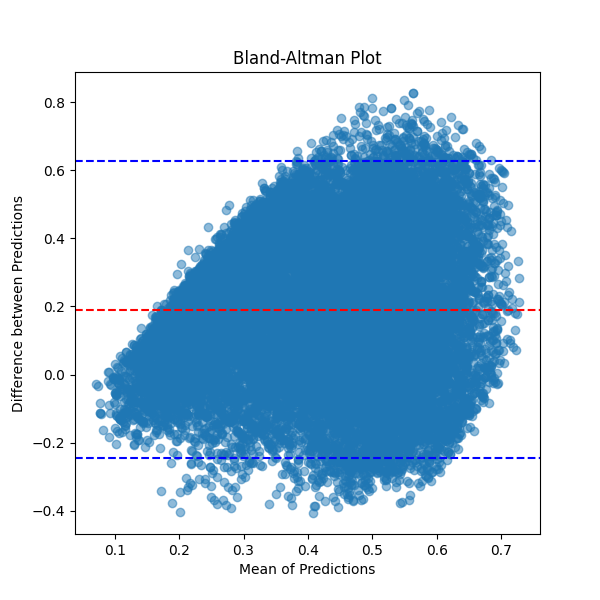
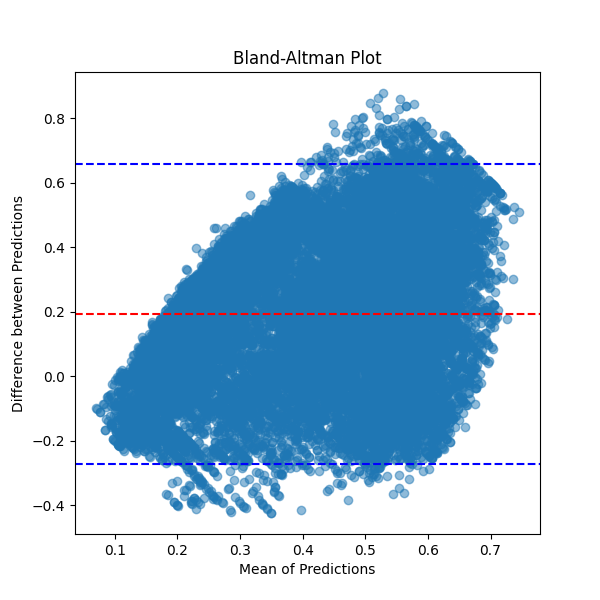
fix bug Selfsimilarity

diff --git a/rank_sum_algorithm/neoantigen_prioritization_rank_sum.py b/rank_sum_algorithm/neoantigen_prioritization_rank_sum.py
@@ -25,7 +25,8 @@ def create_annotations_df(pvacseq_filename, neofox_filename):
     neofox_df = pd.read_csv(neofox_filename, sep="\t", header=0)
 
     if neofox_df.shape[0] != pvacseq_df.shape[0]:
-        raise ValueError("Neofox output and pVACseq output should have the same amount of rows.")
+        raise ValueError("Neofox output and pVACseq output should have the same amount of rows.") 
+        raise ValueError("Neofox output and pVACseq output should have the same amount of rows.") 
     annotation_df = neofox_df.merge(
         right=pvacseq_df.loc[:, ['Chromosome', 'Start', 'Stop', 'Transcript', 'Variant Type',
                                  'MHCflurry WT IC50 Score', 'MHCflurry MT IC50 Score', 'MHCflurry WT Percentile',
@@ -86,10 +87,15 @@ def ranking(input_df, meta_columns, step_size):
         # Ranking
         column_name_rank = feature_name + '_rank'
         if feature_name == 'Selfsimilarity_conserved_binder':
-            # if Selfsimilarity is NaN, the DAI is almost zero -> NaN would be preferable
+            # if Selfsimilarity is NaN, the DAI is not almost zero -> NaN would be preferable if DAI >> 0, but if DAI << 0 not preferable
             rank_column = output_df[feature_name].rank(method='max',
                                                        ascending=features[feature_name]['direction'] == 'lower',
-                                                       na_option='top')
+                                                       na_option='keep')
+            preferable_na_count = (output_df[feature_name].isna() & (output_df['DAI'] > 0)).sum()
+            rank_column = rank_column + preferable_na_count
+            rank_column[output_df[feature_name].isna() & (output_df['DAI'] > 0)] = preferable_na_count
+
+            rank_column[output_df[feature_name].isna() & (output_df['DAI'] <= 0)] = rank_column.size
         elif feature_name == 'imputedGeneExpression':
             output_df.insert(index, 'rnaExpression', input_df['rnaExpression'])
             index += 1

diff --git a/rank_sum_algorithm/weight_calc/random_forest_model.py b/rank_sum_algorithm/weight_calc/random_forest_model.py
@@ -8,9 +8,10 @@ from sklearn.ensemble import RandomForestClassifier
 from sklearn.metrics import accuracy_score, precision_score, recall_score, f1_score, roc_auc_score, roc_curve
 from sklearn.inspection import permutation_importance
 
-sys.path.append(sys.path[0] + '/../..')
-from analysis.helpers.get_data import get_relevant_features_neofox
-from rank_sum_algorithm.weight_calc.data.get_data import get_train_data
+sys.path.append(sys.path[0] + '/../../analysis')
+from helpers.get_data import get_relevant_features_neofox
+sys.path.append(sys.path[0] + '/../../rank_sum_algorithm')
+from weight_calc.data.get_data import get_train_data
 
 
 class RandomForestModel:
@@ -47,8 +48,7 @@ class RandomForestModel:
 
         weights = {}
         for feature, weight in zip(feature_list, feature_weights_adjusted):
-            weights[feature] = weight
-
+            weights[feature] = weight if weight > 0 else 1e-10
         total = 1
         for feature in get_relevant_features_neofox():
             if feature not in weights:
@@ -64,7 +64,7 @@ class RandomForestModel:
         sorted_importances_idx = result.importances_mean.argsort()
         importances = pd.DataFrame(
             result.importances[sorted_importances_idx].T,
-            columns=feature_list[sorted_importances_idx],
+            columns=np.array(feature_list)[sorted_importances_idx],
         )
         ax = importances.plot.box(vert=False, whis=10)
         ax.set_title("Permutation Importances (test set)")

diff --git a/rank_sum_algorithm/analysis/rank_sum_score_vs_random_forest_prediction.py b/rank_sum_algorithm/analysis/rank_sum_score_vs_random_forest_prediction.py
@@ -14,7 +14,7 @@ from analysis.helpers.get_data import get_relevant_features_neofox
 from rank_sum_algorithm.weight_calc.random_forest_model import RandomForestModel
 
 rf = RandomForestModel()
-step_size = 1
+step_size = 25
 
 directory = "/mnt/storage2/users/ahnelll1/master_thesis/output"
 features_qscore = None
@@ -37,11 +37,14 @@ for cohort in os.listdir(directory):
                 features_qscore = weighted_rank_sum_out
             else:
                 features_qscore = pd.concat([features_qscore, weighted_rank_sum_out])
-
+features_qscore.reset_index(drop=True, inplace=True)
 qscores = features_qscore.loc[:, ['qscore']]
 features = features_qscore.loc[:, [name for name in get_relevant_features_neofox() if not name.startswith("Priority_score")]]
-features['Selfsimilarity_conserved_binder'] = features['Selfsimilarity_conserved_binder'].fillna(0)
 
+for i, row in features.iterrows():
+    if np.isnan(row['Selfsimilarity_conserved_binder']):
+        features.loc[i, 'Selfsimilarity_conserved_binder'] = 0 if (features.loc[i, 'DAI'] > 0) else 1
+print(features['Selfsimilarity_conserved_binder'])
 features = np.array(features)
 qscores = np.array(qscores).flatten()
 

diff --git a/rank_sum_algorithm/weight_calc/data/get_data.py b/rank_sum_algorithm/weight_calc/data/get_data.py
@@ -6,8 +6,8 @@ import sys
 from sklearn.model_selection import train_test_split
 from sklearn.impute import SimpleImputer
 
-sys.path.append(sys.path[0] + '/../../..')
-from analysis.helpers.get_data import get_relevant_features_neofox
+sys.path.append(sys.path[0] + '/../../../analysis')
+from helpers.get_data import get_relevant_features_neofox
 
 directory_ml = "/mnt/storage2/users/ahnelll1/master_thesis/output_training_data"
 
@@ -30,8 +30,9 @@ def get_train_data():
 
     features_with_meta = features_with_meta.loc[:, ['patientIdentifier'] + [name for name in all_feature_names if
                                                                             not name.startswith("Priority_score")]]
-    features_with_meta['Selfsimilarity_conserved_binder'] = features_with_meta[
-        'Selfsimilarity_conserved_binder'].fillna(0)
+    for i, row in features_with_meta.iterrows():
+        if features_with_meta.isnull().loc[i, 'Selfsimilarity_conserved_binder']:
+            features_with_meta.loc[i, 'Selfsimilarity_conserved_binder'] = 0 if (features_with_meta.loc[i, 'DAI'] > 0) else 1
 
     features_with_meta_array = np.array(features_with_meta)
 

diff --git a/rank_sum_algorithm/analysis/rank_sum_training_data.py b/rank_sum_algorithm/analysis/rank_sum_training_data.py
@@ -2,7 +2,7 @@ import pandas as pd
 from sklearn.metrics import accuracy_score, precision_score, recall_score, f1_score, roc_auc_score, roc_curve
 import matplotlib.pyplot as plt
 
-step_size = 1
+step_size = 25
 
 response = pd.read_csv("/mnt/storage2/users/ahnelll1/master_thesis/output_training_data/NEPdb_neofox_annotations.tsv", sep="\t", header=0).loc[:, ["patientIdentifier", "response"]].sort_values(by=['patientIdentifier'])
 rank_sum = pd.read_csv(f"/mnt/storage2/users/ahnelll1/master_thesis/output_training_data/NEPdb_neofox_annotations_rank_sum_weighted_out_{step_size}.tsv", sep="\t", header=0).sort_values(by=['patientIdentifier'])

diff --git a/rank_sum_algorithm/run_rank_sum_samples.py b/rank_sum_algorithm/run_rank_sum_samples.py
@@ -19,4 +19,4 @@ for cohort in os.listdir(directory):
             if not os.path.isfile(neofox_filename):
                 continue
             
-            rank_sum_qscore(pvacseq_filename, neofox_filename, 1)
+            rank_sum_qscore(pvacseq_filename, neofox_filename, 10)

diff --git a/rank_sum_algorithm/run_rank_sum_NEPdb.py b/rank_sum_algorithm/run_rank_sum_NEPdb.py
@@ -9,4 +9,4 @@ directory = "/mnt/storage2/users/ahnelll1/master_thesis/output_training_data"
 
 neofox_filename = os.path.join(directory, "NEPdb_neofox_annotations.tsv")
 
-rank_sum_qscore_training_data(neofox_filename, 1)
+rank_sum_qscore_training_data(neofox_filename, 10)

diff --git a/rank_sum_algorithm/analysis/rank_sum_RECIST_correlation.py b/rank_sum_algorithm/analysis/rank_sum_RECIST_correlation.py
@@ -16,8 +16,8 @@ response_map = {
 }
 
 prediction_weighted = []
-topx = 3
-step_size = 1
+topx = 10
+step_size = 25
 
 def sum_top_x(df, column, number):
     sorted_scores = df[column].sort_values(ascending=False)
